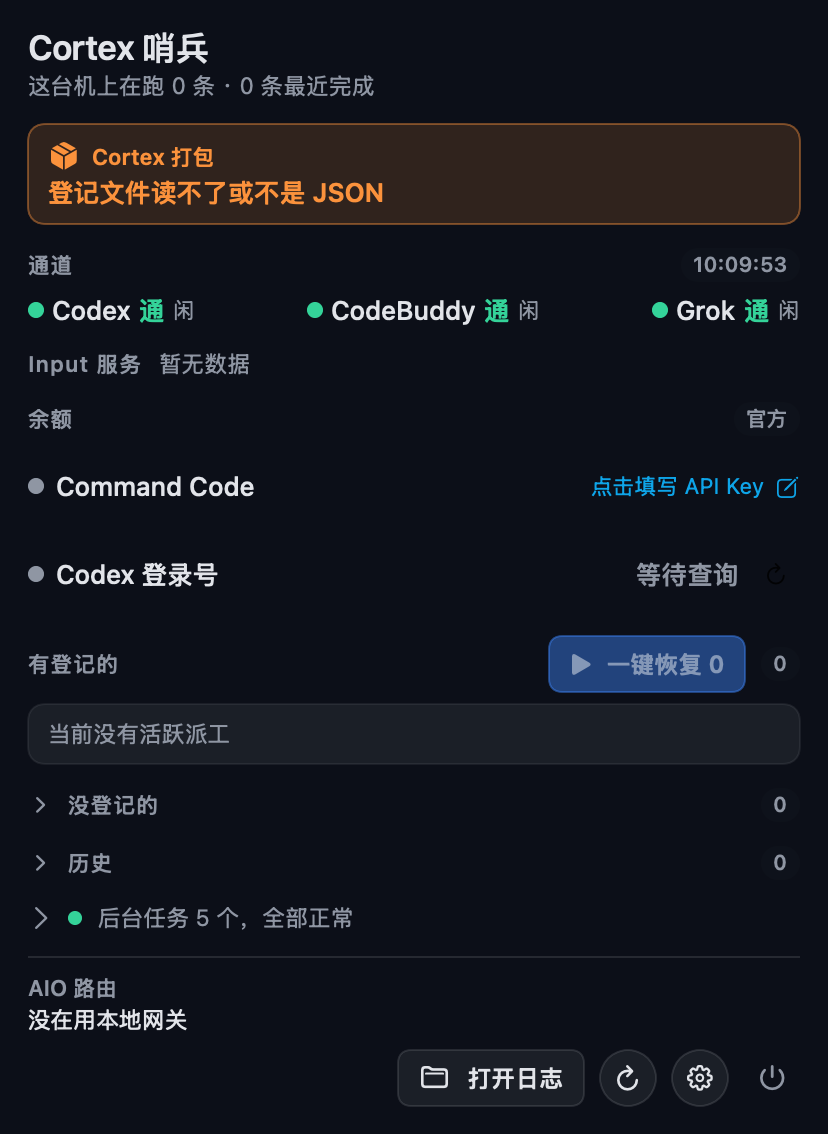
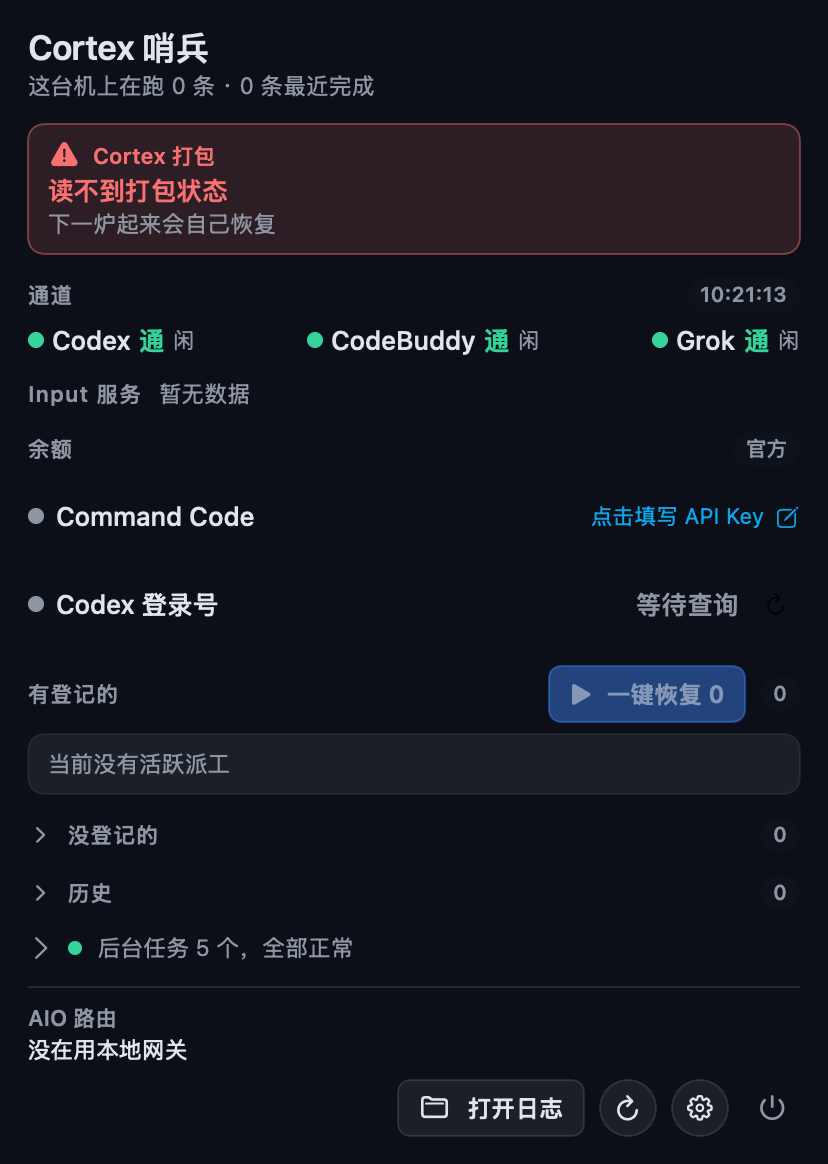
fix: COR-7600 返工——error 人话上屏+红色警示档与 running 分开，ETA 带预计钟点
上屏一律人话：error 两种合成一句「读不到打包状态 · 下一炉起来会自己恢复」，
idle 一句「当前没有在跑的炉」；机器口径 reason 保留在读层与 --dump-state。
error 换 danger 红档+警告三角，与 running 橙框一眼可分（SentinelPackagingSectionMood
三档钉死）。ETA 右上角时长+钟点都给（「大约还要 12 分钟 · 预计 10:33:13」）。
新增 3 条断言：error 与 running 图标/颜色/档位全不同、上屏文案无内部词、
eta_ms 缺失不硬造钟点。swift test rc=0，502 tests / 0 failures。三张 PNG 重出。

diff --git a/Sources/CortexSentinelBar/SentinelMenuSections.swift b/Sources/CortexSentinelBar/SentinelMenuSections.swift
@@ -582,9 +582,52 @@ enum SentinelPackagingPresentation {
     }
 }
 
+/// 打包三态分区的视觉档位（COR-7600 返工）。running 与 error 必须一眼可分：
+/// 曾同为橙框橙图标，「在打包」和「出错了」扫一眼混掉，病根从文案挪到了颜色。
+enum SentinelPackagingSectionMood: Equatable {
+    case running
+    case idle
+    case error
+
+    var iconName: String {
+        switch self {
+        case .running: return "shippingbox.fill"
+        case .idle: return "shippingbox"
+        case .error: return "exclamationmark.triangle.fill"
+        }
+    }
+
+    var tone: SentinelRowTone {
+        switch self {
+        case .running: return .warning
+        case .idle: return .normal
+        case .error: return .danger
+        }
+    }
+
+    var accent: Color {
+        switch self {
+        case .running: return SentinelTheme.Colors.warning
+        case .idle: return SentinelTheme.Colors.secondaryForeground
+        case .error: return SentinelTheme.Colors.danger
+        }
+    }
+}
+
+/// 打包三态的上屏文案。一律人话：读屏的人没看过我们代码，
+/// 不许出现 JSON / 数据根 / 稳定落点 / 登记文件这类内部词。
+/// 读侧 reason（与主仓遥测逐字一致的那套）只进 --dump-state 等诊断口，不上屏。
+enum SentinelPackagingCopy {
+    static let sectionTitle = "Cortex 打包"
+    static let runningBusy = "打包中"
+    static let idleLine = "当前没有在跑的炉"
+    static let errorLine = "读不到打包状态"
+    static let errorHint = "下一炉起来会自己恢复"
+}
+
 /// Cortex 打包进度：三态分区（COR-7600）。running 显示哪一炉/第几步/几点
-/// 起算/预计还要多久；idle 显示读侧 reason（可带上一炉时间）；error 单独
-/// 显示「没拿到数据」。三态互斥，界面上不许把 idle 和 error 合成一句。
+/// 起算/预计几点出包；idle 显示「当前没有在跑的炉」（可带上一炉时间）；
+/// error 用红色警示档单独显示「读不到打包状态」，与 running 橙框一眼可分。
 /// 读：packagingReading。
 struct SentinelPackagingSection: View {
     var store: SentinelStore
@@ -595,10 +638,10 @@ struct SentinelPackagingSection: View {
         switch store.packagingReading {
         case .running(let packaging):
             runningBlock(packaging)
-        case .idle(let reason, let lastRun):
-            idleBlock(reason: reason, lastRun: lastRun)
-        case .error(let reason):
-            errorBlock(reason: reason)
+        case .idle(_, let lastRun):
+            idleBlock(lastRun: lastRun)
+        case .error:
+            errorBlock()
         case nil:
             EmptyView()
         }
@@ -607,15 +650,15 @@ struct SentinelPackagingSection: View {
     private func runningBlock(_ packaging: PackagingProgressSnapshot) -> some View {
         VStack(alignment: .leading, spacing: SentinelTheme.Spacing.xs) {
             HStack(alignment: .firstTextBaseline, spacing: SentinelTheme.Spacing.sm) {
-                Image(systemName: "shippingbox.fill")
-                    .foregroundStyle(SentinelTheme.Colors.warning)
-                Text("Cortex 打包")
+                Image(systemName: SentinelPackagingSectionMood.running.iconName)
+                    .foregroundStyle(SentinelPackagingSectionMood.running.accent)
+                Text(SentinelPackagingCopy.sectionTitle)
                     .font(SentinelTheme.Fonts.section)
-                    .foregroundStyle(SentinelTheme.Colors.warning)
+                    .foregroundStyle(SentinelPackagingSectionMood.running.accent)
                 Spacer()
-                Text(packaging.etaText)
+                Text(packaging.etaDisplayText)
                     .font(SentinelTheme.Fonts.metadata)
-                    .foregroundStyle(SentinelTheme.Colors.warning)
+                    .foregroundStyle(SentinelPackagingSectionMood.running.accent)
             }
 
             Text(packaging.stepTitle)
@@ -647,23 +690,23 @@ struct SentinelPackagingSection: View {
                     .foregroundStyle(SentinelTheme.Colors.secondaryForeground)
             }
         }
-        .sentinelRow(tone: .warning)
+        .sentinelRow(tone: SentinelPackagingSectionMood.running.tone)
         .accessibilityElement(children: .ignore)
         .accessibilityLabel(packaging.accessibilityText)
         .accessibilityIdentifier("packaging-progress")
     }
 
-    private func idleBlock(reason: String, lastRun: PackagingProgressSnapshot?) -> some View {
+    private func idleBlock(lastRun: PackagingProgressSnapshot?) -> some View {
         VStack(alignment: .leading, spacing: SentinelTheme.Spacing.xxs) {
             HStack(alignment: .firstTextBaseline, spacing: SentinelTheme.Spacing.sm) {
-                Image(systemName: "shippingbox")
-                    .foregroundStyle(SentinelTheme.Colors.secondaryForeground)
-                Text("Cortex 打包")
+                Image(systemName: SentinelPackagingSectionMood.idle.iconName)
+                    .foregroundStyle(SentinelPackagingSectionMood.idle.accent)
+                Text(SentinelPackagingCopy.sectionTitle)
                     .font(SentinelTheme.Fonts.section)
-                    .foregroundStyle(SentinelTheme.Colors.secondaryForeground)
+                    .foregroundStyle(SentinelPackagingSectionMood.idle.accent)
                 Spacer()
             }
-            Text(reason)
+            Text(SentinelPackagingCopy.idleLine)
                 .font(SentinelTheme.Fonts.rowTitle)
                 .foregroundStyle(SentinelTheme.Colors.foreground)
             if let lastRunAt = lastRun?.updatedAt {
@@ -672,34 +715,37 @@ struct SentinelPackagingSection: View {
                     .foregroundStyle(SentinelTheme.Colors.secondaryForeground)
             }
         }
-        .sentinelRow(tone: .normal)
+        .sentinelRow(tone: SentinelPackagingSectionMood.idle.tone)
         .accessibilityElement(children: .ignore)
-        .accessibilityLabel(accessibilityText(reason: reason, lastRun: lastRun))
+        .accessibilityLabel(idleAccessibilityText(lastRun: lastRun))
         .accessibilityIdentifier("packaging-idle")
     }
 
-    private func errorBlock(reason: String) -> some View {
+    private func errorBlock() -> some View {
         VStack(alignment: .leading, spacing: SentinelTheme.Spacing.xxs) {
             HStack(alignment: .firstTextBaseline, spacing: SentinelTheme.Spacing.sm) {
-                Image(systemName: "shippingbox.fill")
-                    .foregroundStyle(SentinelTheme.Colors.warning)
-                Text("Cortex 打包")
+                Image(systemName: SentinelPackagingSectionMood.error.iconName)
+                    .foregroundStyle(SentinelPackagingSectionMood.error.accent)
+                Text(SentinelPackagingCopy.sectionTitle)
                     .font(SentinelTheme.Fonts.section)
-                    .foregroundStyle(SentinelTheme.Colors.warning)
+                    .foregroundStyle(SentinelPackagingSectionMood.error.accent)
                 Spacer()
             }
-            Text(reason)
+            Text(SentinelPackagingCopy.errorLine)
                 .font(SentinelTheme.Fonts.rowTitle)
-                .foregroundStyle(SentinelTheme.Colors.warning)
+                .foregroundStyle(SentinelPackagingSectionMood.error.accent)
+            Text(SentinelPackagingCopy.errorHint)
+                .font(SentinelTheme.Fonts.subtitle)
+                .foregroundStyle(SentinelTheme.Colors.secondaryForeground)
         }
-        .sentinelRow(tone: .warning)
+        .sentinelRow(tone: SentinelPackagingSectionMood.error.tone)
         .accessibilityElement(children: .ignore)
-        .accessibilityLabel("Cortex 打包，\(reason)")
+        .accessibilityLabel("\(SentinelPackagingCopy.sectionTitle)，\(SentinelPackagingCopy.errorLine)，\(SentinelPackagingCopy.errorHint)")
         .accessibilityIdentifier("packaging-error")
     }
 
-    private func accessibilityText(reason: String, lastRun: PackagingProgressSnapshot?) -> String {
-        var parts = ["Cortex 打包", reason]
+    private func idleAccessibilityText(lastRun: PackagingProgressSnapshot?) -> String {
+        var parts = [SentinelPackagingCopy.sectionTitle, SentinelPackagingCopy.idleLine]
         if let lastRunAt = lastRun?.updatedAt {
             parts.append("上一炉 \(SentinelTimeFormat.clockTime(lastRunAt))")
         }

diff --git a/Tests/CortexSentinelBarTests/PackagingDisplayRegressionTests.swift b/Tests/CortexSentinelBarTests/PackagingDisplayRegressionTests.swift
@@ -279,6 +279,43 @@ final class PackagingDisplayRegressionTests: XCTestCase {
         XCTAssertNil(lastRun)
     }
 
+    // MARK: - COR-7600 返工：error 人话上屏、与 running 视觉分档
+
+    /// running 与 error 必须一眼可分：图标、颜色、行档位三样都得不一样。
+    /// 曾经两者同为橙框橙图标，「在打包」和「出错了」扫一眼混掉。
+    func testErrorMoodDiffersFromRunningInIconColorAndTone() {
+        let running = SentinelPackagingSectionMood.running
+        let error = SentinelPackagingSectionMood.error
+        XCTAssertNotEqual(running.iconName, error.iconName, "running 与 error 图标必须不同")
+        XCTAssertNotEqual(running.accent, error.accent, "running 与 error 前景色必须不同")
+        XCTAssertNotEqual(running.tone, error.tone, "running 与 error 行档位必须不同")
+        // idle 保持安静档，也不许跟 error 撞。
+        XCTAssertNotEqual(SentinelPackagingSectionMood.idle.accent, error.accent)
+    }
+
+    /// 上屏文案一律人话：没看过我们代码的人要能读懂发生了什么、要不要做事。
+    /// JSON / 数据根 / 稳定落点 / 登记文件这些内部词只许进 --dump-state 诊断口。
+    func testOnScreenPackagingCopySpeaksHumanWithoutInternalJargon() {
+        let onScreenTexts = [
+            SentinelPackagingCopy.sectionTitle,
+            SentinelPackagingCopy.idleLine,
+            SentinelPackagingCopy.errorLine,
+            SentinelPackagingCopy.errorHint,
+        ]
+        let forbiddenJargon = ["JSON", "json", "数据根", "稳定落点", "登记", "解析", "镜像", "schema", "文件"]
+        for word in forbiddenJargon {
+            for text in onScreenTexts {
+                XCTAssertFalse(
+                    text.contains(word),
+                    "上屏文案不许出现内部词「\(word)」：\(text)"
+                )
+            }
+        }
+        // error 那句要同时说清「什么状态」和「要不要管」。
+        XCTAssertEqual(SentinelPackagingCopy.errorLine, "读不到打包状态")
+        XCTAssertEqual(SentinelPackagingCopy.errorHint, "下一炉起来会自己恢复")
+    }
+
     private func writeStablePackProgress(status: String) throws {
         let healthDirectory = root.appendingPathComponent("health", isDirectory: true)
         try fileManager.createDirectory(at: healthDirectory, withIntermediateDirectories: true)

diff --git a/Tests/CortexSentinelBarTests/PackagingProgressTests.swift b/Tests/CortexSentinelBarTests/PackagingProgressTests.swift
@@ -161,6 +161,32 @@ final class PackagingProgressTests: XCTestCase {
         XCTAssertEqual(PackagingProgressActivity.runningStaleAfterSeconds, 30 * 60)
     }
 
+    /// Falcon 原话要的是「预计几点出包」这个钟点，不只是「还要多久」。
+    func testEtaDisplayCarriesArrivalClockFromEtaMilliseconds() throws {
+        let withEta = try JSONDecoder().decode(
+            PackagingProgressSnapshot.self,
+            from: progressJSON(
+                status: "running",
+                updatedAt: Date(),
+                extra: ["eta_ms": 12 * 60 * 1000, "eta_label": "大约还要 12 分钟"]
+            )
+        )
+        XCTAssertEqual(withEta.etaText, "大约还要 12 分钟")
+        XCTAssertTrue(withEta.etaArrivalText?.hasPrefix("预计 ") == true, "钟点必须是「预计 HH:mm」的形状")
+        XCTAssertTrue(withEta.etaDisplayText.contains(withEta.etaText))
+        XCTAssertTrue(withEta.etaDisplayText.contains(withEta.etaArrivalText ?? ""), "右上角要时长和钟点都给")
+
+        // 裸 JSON：progressJSON 夹具基础载荷自带 eta_ms，测「没有 eta」得绕开它。
+        let withoutEta = try JSONDecoder().decode(
+            PackagingProgressSnapshot.self,
+            from: Data(
+                #"{"schema":"cortex.packaging-progress.v1","status":"running","updated_at":"2026-09-19T02:00:00.000Z"}"#.utf8
+            )
+        )
+        XCTAssertNil(withoutEta.etaArrivalText)
+        XCTAssertEqual(withoutEta.etaDisplayText, withoutEta.etaText, "没有 eta_ms 就只剩时长，不硬造钟点")
+    }
+
     func testCrossLanguageActivityFixtureMatchesSwiftVerdict() throws {
         let url = try XCTUnwrap(
             Bundle.module.url(

diff --git a/Sources/CortexSentinelBar/PackagingProgress.swift b/Sources/CortexSentinelBar/PackagingProgress.swift
@@ -200,6 +200,24 @@ struct PackagingProgressSnapshot: Decodable, Equatable {
         normalized(etaLabel) ?? "剩余时间估计中"
     }
 
+    /// 预计几点出包：现在 + eta_ms 折成钟点。Falcon 原话要的是个钟点，
+    /// 不是「还要多久」；没有 eta_ms 给 nil。
+    var etaArrivalText: String? {
+        guard let etaMilliseconds, etaMilliseconds > 0 else {
+            return nil
+        }
+        let arrival = Date().addingTimeInterval(TimeInterval(etaMilliseconds) / 1000)
+        return "预计 \(SentinelTimeFormat.clockTime(arrival))"
+    }
+
+    /// 右上角一句话：时长 + 钟点都要（「大约还要 12 分钟 · 预计 10:22」）。
+    var etaDisplayText: String {
+        if let etaArrivalText {
+            return "\(etaText) · \(etaArrivalText)"
+        }
+        return etaText
+    }
+
     /// 哪一炉：版本优先，没有版本退 run_id；两样都没有给 nil。
     var furnaceText: String? {
         normalized(version) ?? normalized(runID)
@@ -224,7 +242,7 @@ struct PackagingProgressSnapshot: Decodable, Equatable {
             parts.append(stepProgress)
         }
         parts.append(stepTitle)
-        parts.append(etaText)
+        parts.append(etaDisplayText)
         if let detailText {
             parts.append(detailText)
         }

diff --git a/Sources/CortexSentinelBar/CortexSentinelBarApp.swift b/Sources/CortexSentinelBar/CortexSentinelBarApp.swift
@@ -334,6 +334,7 @@ enum CortexSentinelBarMain {
             "  活跃按引擎（本机）：Codex=\(localActiveCounts.codex) CodeBuddy=\(localActiveCounts.codebuddy) Grok=\(localActiveCounts.grok) ox-alpha=\(localActiveCounts.claudeOxAlpha) 其它=\(localActiveCounts.unknown)"
         )
         // COR-7600：打包三态原样打印，稳定落点 / 旧落点各是哪条路一目了然。
+        // reason 是与主仓遥测逐字一致的机器口径，只进这个诊断口，不上屏。
         print("打包登记落点：\(paths.packProgressHealthURL?.path ?? "解析不出来（数据根与显式覆盖都不可用）")")
         print("打包旧落点：\(paths.packagingProgressRoot.path)")
         switch PackagingProgressReader.read(
@@ -349,7 +350,7 @@ enum CortexSentinelBarMain {
                 parts.append(stepProgress)
             }
             parts.append(packaging.stepTitle)
-            parts.append(packaging.etaText)
+            parts.append(packaging.etaDisplayText)
             print(parts.joined(separator: " · "))
         case .idle(let reason, let lastRun):
             var line = "打包进度：idle · \(reason)"

diff --git a/Sources/CortexSentinelBar/PanelPNGRenderer.swift b/Sources/CortexSentinelBar/PanelPNGRenderer.swift
@@ -851,6 +851,7 @@ private enum PanelPreviewLayout {
          "current_step_id":"dmg","current_detail":"Electron 打包",
          "started_at":"\(formatter.string(from: Date().addingTimeInterval(-25 * 60)))",
          "updated_at":"\(formatter.string(from: Date()))",
+         "eta_ms":720000,
          "eta_label":"大约还要 12 分钟",
          "progress_file":"\(privateProgressPointer())",
          "steps":[{"id":"build","title":"构建 App 与 zip","status":"done"},

diff --git a/reports/cor7600-sentinel-pack-20260920.md b/reports/cor7600-sentinel-pack-20260920.md
@@ -129,3 +129,35 @@ $ git worktree list | grep -i cor7600
 **新基重出三态渲染证据**：`reports/cor7600-assets/` 三张 PNG 已替换为新基版本（面板 760→828 宽，running/idle/error 内容同前：版本·步次·起算·ETA / reason+上一炉 / error 单独成态），running 态亲眼复核，打包分区与上游新版布局共存正常。`--dump-state` 行为与旧基一致（同一段代码，未受上游影响）。
 
 **旧分支清理**：新 PR 开好后已删——`git branch -D codex/cor7600-pack-stable-mirror`（was 76c656e）+ `git push origin --delete codex/cor7600-pack-stable-mirror`，本地与远端均已不存在；PR #44 已补评论注明新 PR 号（#45）。
+
+## 返工第二节：error 人话上屏、与 running 视觉分档、ETA 带钟点（2026-09-20，主控审 PR #45 后）
+
+**改后的三段上屏文案原文**（机器口径 reason 保留在读层与 `--dump-state`，与主仓遥测逐字一致那套不动；上屏走固定人话映射）：
+
+- running：标题「Cortex 打包」+「打 DMG」详情 +「1.2.3 · 第 3/3 步 · 09:56:13 起算」+ 右上角「**大约还要 12 分钟 · 预计 10:33:13**」+「更新于 10:21:13」
+- idle：标题「Cortex 打包」+「**当前没有在跑的炉**」（可带「上一炉 07:59:34」）
+- error：标题「Cortex 打包」+「**读不到打包状态**」+「**下一炉起来会自己恢复**」——两种 error（文件读不了 / 位置定不出来）对用户是同一件事，合成同一句人话；读屏 label 同步改
+
+**running 与 error 各自的样式**（`SentinelPackagingSectionMood` 三档，收在 `SentinelMenuSections.swift`）：
+
+| 档 | 图标 | 行档位（背景/描边） | 前景色 |
+|---|---|---|---|
+| running | `shippingbox.fill` | `.warning`（橙） | `Colors.warning`（0xFB923C 橙） |
+| idle | `shippingbox` | `.normal` | `Colors.secondaryForeground` |
+| error | `exclamationmark.triangle.fill` | `.danger`（红） | `Colors.danger`（0xF87171 红） |
+
+**新加的断言**（`PackagingDisplayRegressionTests`）：
+
+- `testErrorMoodDiffersFromRunningInIconColorAndTone` —— 钉住 running 与 error 的图标、前景色、行档位三样全不同（idle 也不许跟 error 撞色）
+- `testOnScreenPackagingCopySpeaksHumanWithoutInternalJargon` —— 守卫上屏四句文案不含内部词（JSON/数据根/稳定落点/登记/解析/镜像/schema/文件），并钉住 error 两句原文
+- `testEtaDisplayCarriesArrivalClockFromEtaMilliseconds`（`PackagingProgressTests`）—— 「预计 HH:mm」钟点来自 eta_ms；没有 eta_ms 只剩时长不硬造钟点
+
+**重跑 `swift test`**（隔离 `TMPDIR`，`out=$(swift test 2>&1); rc=$?`）：**rc=0，502 tests，0 failures**（499 + 返工新增 3 条；夹具补 eta_ms 后复跑仍全绿）。
+
+**三张 PNG 重出**（`reports/cor7600-assets/` 已替换，error 那张就是改后的红色档）：
+
+- `panel-pack-stable-running.png`：橙框 + 「大约还要 12 分钟 · 预计 10:33:13」（时长和钟点都在，宽度无压力）
+- `panel-pack-stable-idle.png`：灰档 +「当前没有在跑的炉 / 上一炉 07:59:34」
+- `panel-pack-stable-error.png`：**红框红三角 +「读不到打包状态 / 下一炉起来会自己恢复」**——不读字也能跟 running 分开
+
+夹具顺带修正：`writeStablePackProgress` 的 running 载荷补了 `eta_ms`（真实炉写方本就带，首轮夹具漏了导致首版渲染没出钟点）。契约文档「打包进度块」行同步改写。

diff --git a/docs/sentinel-feature-contract.md b/docs/sentinel-feature-contract.md
@@ -21,7 +21,7 @@
 | 分区 | 数据 | 必须行为 | 守卫 |
 |---|---|---|---|
 | 标题 | `paths` / `lineGroups` / `boardWindow` / `localHost` | 本机活跃、最近、外机计数 | `PanelSectionIsolationTests` header |
-| 打包进度块 | `packagingReading` 三态 | running 显示哪一炉/第几步/几点起算/预计；idle 显示读侧 reason（可带上一炉时间）；error 单独显示「没拿到数据」，**不许与 idle 合成一句**。首轮刷新落定后常驻 | `PackagingDisplayRegressionTests` 全组（含 COR-7600 三态四条） |
+| 打包进度块 | `packagingReading` 三态 | running 显示哪一炉/第几步/几点起算/**预计几点出包**；idle 显示「当前没有在跑的炉」（可带上一炉时间）；error 用**红色警示档**（danger 色 + 警告图标，与 running 橙框一眼可分）单独显示「读不到打包状态 · 下一炉起来会自己恢复」。**上屏一律人话，不许出现内部词**（JSON/数据根/稳定落点/登记文件等——机器口径 reason 只进 `--dump-state`）。首轮刷新落定后常驻 | `PackagingDisplayRegressionTests` 全组（含 COR-7600 三态、error 人话与视觉分档断言） |
 | 通道 | `channelStatus` + 本机引擎计数 | 三卡 Codex / Grok / ox-alpha | `ChannelSectionPresentationTests` |
 | Input 服务 | `inputStatus` | 全好时收成一行，有问题展开 | `InputStatusTests` + isolation service |
 | 余额 | `aio` + `officialUsage` | 冷开尽快填数，刷新不塌陷 | isolation balances；`PanelBalanceRefreshTests` |
